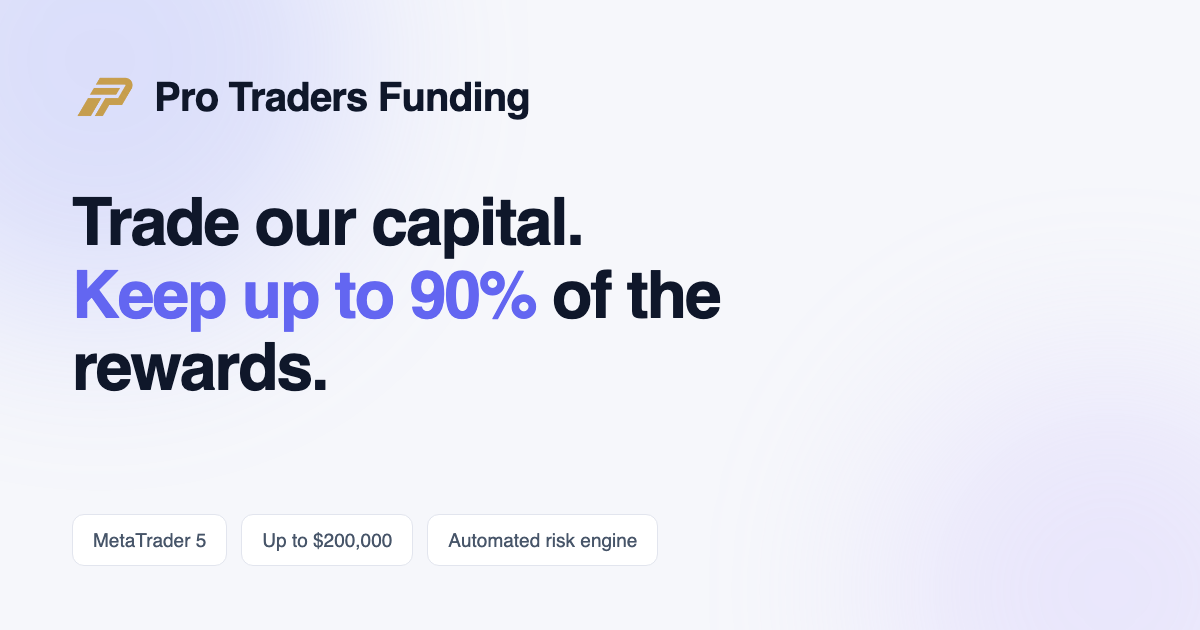
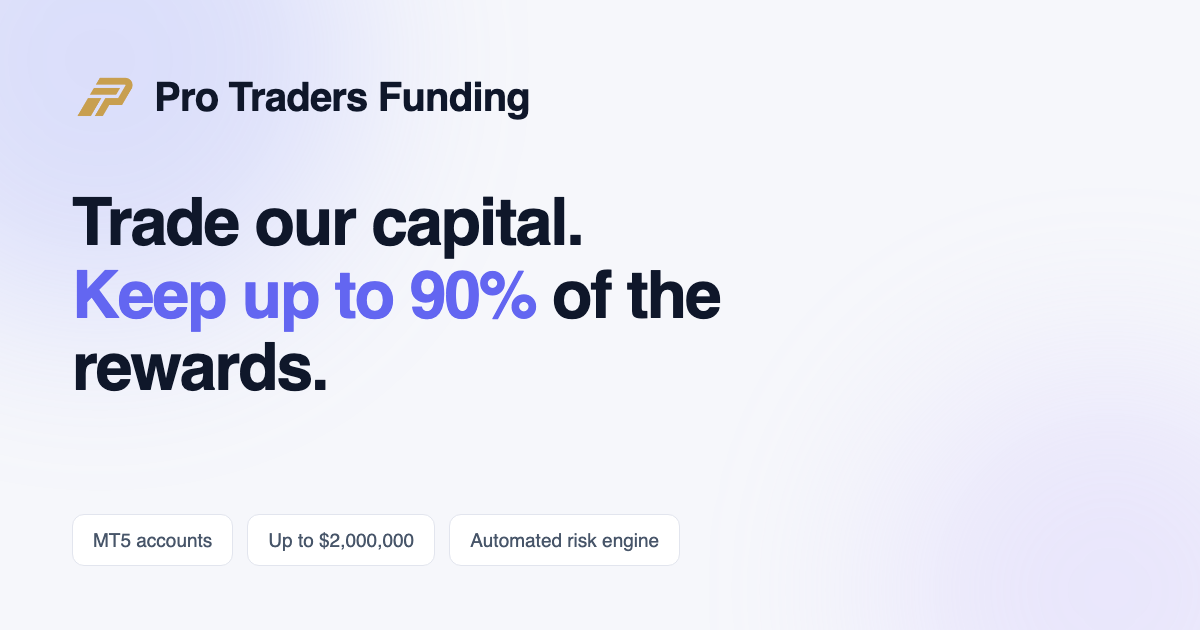
Open Graph image says MT5 accounts and up to $2,000,000; three small grammar fixes

Changed region(s): [[0.2158, 0.8444, 0.555, 0.8746], [0.0925, 0.8444, 0.185, 0.8746]]

diff --git a/STRONA/backend/templates/legal/privacy.html b/STRONA/backend/templates/legal/privacy.html
@@ -55,7 +55,7 @@
 
   <h2>6. Cookies and local storage</h2>
   <p>Functional storage: your login token, the sessions of MT5 accounts you sign in to in the Built-in Terminal and, if you arrive through an affiliate link, the referral
-  code, both kept in your browser's local storage.</p>
+  code, all kept in your browser's local storage.</p>
   <p>Analytics: we use Google Analytics 4 to count visits and Microsoft Clarity to see how pages are
   used (aggregate heatmaps and session replays). Both set their own cookies. Clarity masks the contents
   of input fields, so what you type — passwords, personal details, payment data — is not recorded. We do

diff --git a/STRONA/backend/templates/home.html b/STRONA/backend/templates/home.html
@@ -156,7 +156,7 @@
             <path d="M78 41v5l4 3" stroke="#36b9a9" stroke-width="2" stroke-linecap="round"/>
           </svg>{% endif %}</div>
         <h3>2. Get your MT5 credentials</h3>
-        <p>We open a MT5 account for you automatically. Server, login and password
+        <p>We open an MT5 account for you automatically. Server, login and password
            land in your dashboard and inbox once the payment is confirmed.</p>
         <p>Trade from the desktop terminal, the mobile app or the web terminal.</p>
       </div>

diff --git a/STRONA/backend/scripts/gen_og.py b/STRONA/backend/scripts/gen_og.py
@@ -56,8 +56,8 @@ h1 em{{font-style:normal;color:#6366f1}}
   <div class="brand"><img src="{logo}" alt=""><span>{nazwa}</span></div>
   <h1>Trade our capital.<br><em>Keep up to 90%</em> of the rewards.</h1>
   <div class="chips">
-    <div class="chip">MetaTrader 5</div>
-    <div class="chip">Up to $200,000</div>
+    <div class="chip">MT5 accounts</div>
+    <div class="chip">Up to $2,000,000</div>
     <div class="chip">Automated risk engine</div>
   </div>
 </div></body></html>"""
